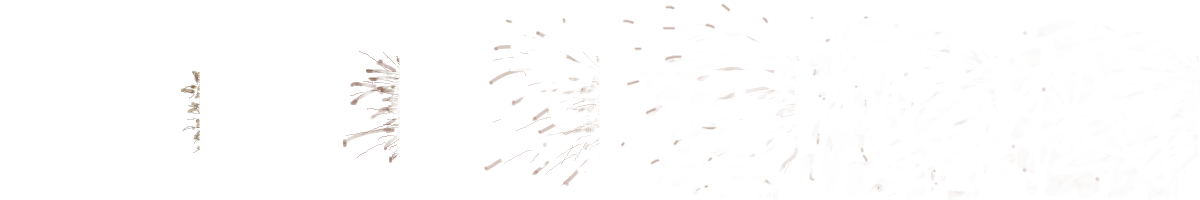
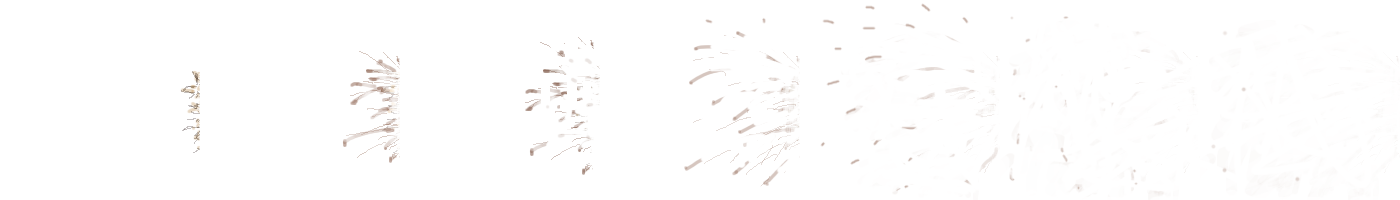
updated

diff --git a/src/gameApp/monsters/Boar.ts b/src/gameApp/monsters/Boar.ts
@@ -29,8 +29,10 @@ export class Boar extends Monster{
 	static specialAbilitySmokeImageDisplayedWidth = 180;
 
 	static specialAbilityDamageParticlesImage: HTMLImageElement;
-	static specialAbilityDamageParticlesImageFrames = 6;
+	static specialAbilityDamageParticlesImageFrames = 7;
 	static specialAbilityDamageParticlesImageFrameWidth = 200;
+	static specialAbilityDamageParticlesImageDisplayedWidth = 100;
+	static specialAbilityDamageParticlesImageDisplayedHeight = 100;
 
 	/* Спец Способность - каждый некоторый кабан останавливается перед атакуемым зданием на расстоянии z пикселей,
 		активирует анимацию "злой бык" и начинает бежать с ускорением с доп анимацией "Пыль", первая атака наносит 10x урон
@@ -41,7 +43,7 @@ export class Boar extends Monster{
 	static timeAnimateSpecialAbility = 1000; //(milliseconds) время анимации способности
 	static timeAnimateSpecialAbilitySmoke = 1000; //(milliseconds) время анимации пыли у способности
 	static timeAnimateSpecialAbilitySmokeGrowing = 600; //(milliseconds) время роста анимации пыли у способности
-	static timeAnimateSpecialDamageParticles = 400; //(milliseconds) время анимации отлёта ошмётков от урона спец способности
+	static timeAnimateSpecialDamageParticles = 200; //(milliseconds) время анимации отлёта ошмётков от урона спец способности
 	static specialAbilityDamage = 10; //начальный урон от спец способности (единократный)
 	isWillUseSpecialAbility: boolean;
 	isActivatedSpecialAbility: boolean;
@@ -224,9 +226,9 @@ export class Boar extends Monster{
 					Boar.specialAbilityDamageParticlesImageFrameWidth, 	//crop by width
 					Boar.specialAbilityDamageParticlesImage.height, 	//crop by height
 					scale > 0 ? this.x - this.width : -this.x,
-					this.y + this.height / 2 - Boar.specialAbilityDamageParticlesImage.height / 2 / 2,
-					scale * Boar.specialAbilityDamageParticlesImageFrameWidth / 2, //displayed width
-					Boar.specialAbilityDamageParticlesImage.height / 2); //displayed height
+					this.y + this.height / 2 - Boar.specialAbilityDamageParticlesImageDisplayedHeight / 2,
+					scale * Boar.specialAbilityDamageParticlesImageDisplayedWidth, //displayed width
+					Boar.specialAbilityDamageParticlesImageDisplayedHeight); //displayed height
 
 				if(!isInvert){
 					Draw.ctx.restore();
